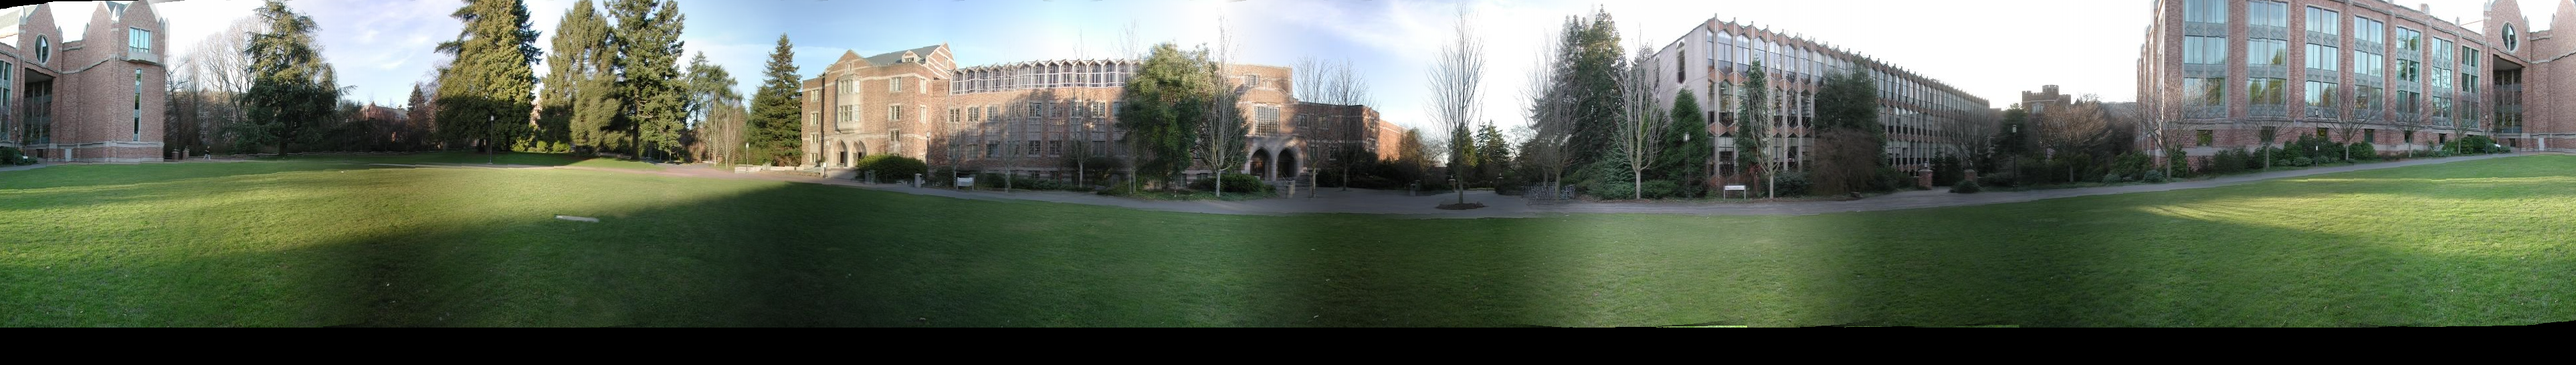
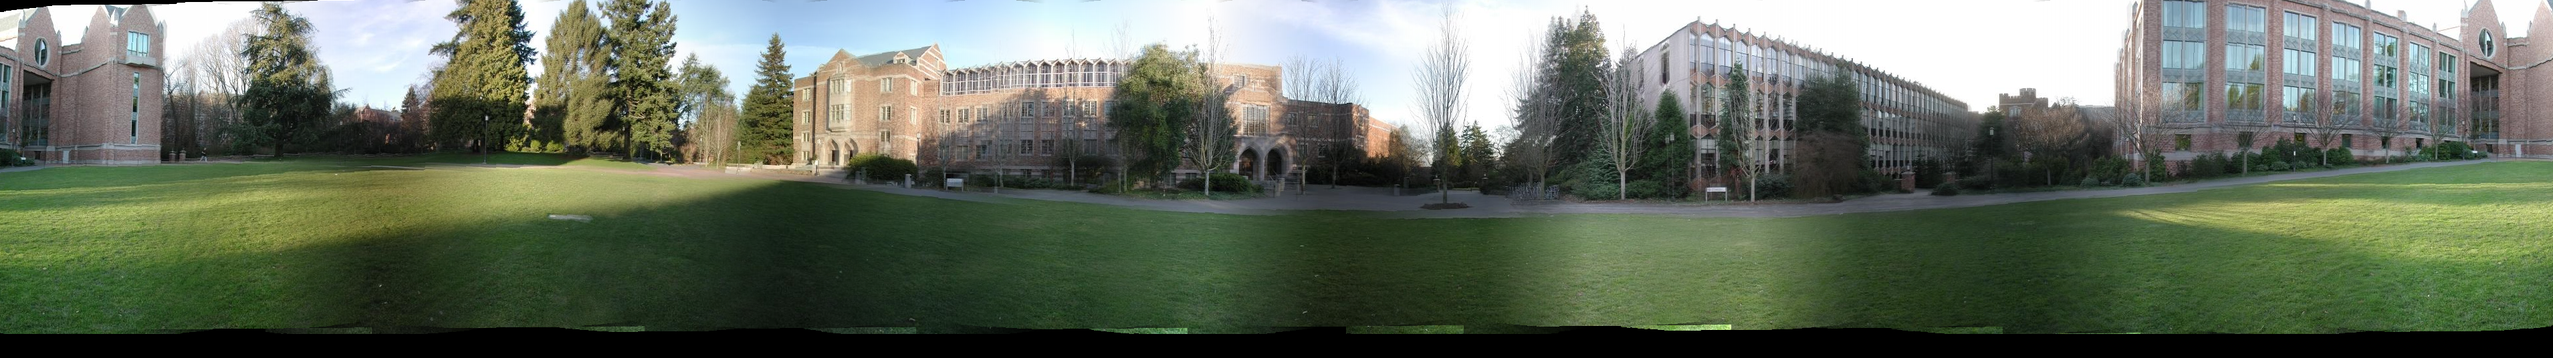
cropped the final images

Changed region(s): [[0.0, 0.0, 1.0, 0.9552], [0.8727, 0.7463, 0.9039, 0.7761]]

diff --git a/main_test_images.m b/main_test_images.m
@@ -5,16 +5,11 @@
 run('VLFeat/vlfeat-0.9.20/toolbox/vl_setup');
 
 % specify directory and extension type
-%directory='Test_Images/'; extension='JPG';
-directory='Lecture_Hall/'; extension='JPG';
+directory='Test_Images/'; extension='JPG';
+%directory='Lecture_Hall/'; extension='JPG';
 
 % load images
 [images] = load_images(directory, extension);
-
-for i = 1:length(images)
-    images{i}=imrotate(images{i},270);
-    images{i}=imresize(images{i}, [480,640]);
-end
 
 % % shorter data set for testing
 % temp{1}=images{1};
@@ -22,30 +17,34 @@ end
 % temp{3}=images{3};
 % images = temp;
 
+
 % cylindrical transform of the entire image set
-focal_length = 663.3665;
+focal_length = 595;
+%focal_length = 663.3665;
 [images] = cylindrical_transform_image_set(images, focal_length);
-[images] = crop_left_side(images,20);
+[images] = crop_left_side(images,6);
 
 % SIFT RANSAC parameters
 numsamples_homography = 4; % min 4
-iterations_ransac = 20000;    % more is better but takes longer O(n)
-threshold_inliers = 12;    % how close do the inliers need to be to be considered inliers
+iterations_ransac = 30000;    % more is better but takes longer O(n)
+threshold_inliers = 7;    % how close do the inliers need to be to be considered inliers
 
 % compute pairwise alignments and merge images
+% [panorama] = merge_images(images, numsamples_homography, iterations_ransac, threshold_inliers, @alpha_blend);
+% [panorama] = merge_images_second_try(images, numsamples_homography, iterations_ransac, threshold_inliers, @alpha_blend);
 [panorama] = merge_images(images, numsamples_homography, iterations_ransac, threshold_inliers, @alpha_blend);
 
-%panorama=imread(['unaligned_lecture_hall_panorama.png']);
+% panorama=imread(['unaligned_panorama.png']);
 
 figure
 imshow(panorama);
 title(['Pre-Alignment']);
-imwrite(panorama,'unaligned_lecture_hall_panorama_2.png');
+imwrite(panorama,'unaligned_test_panorama.png');
 
 % fix end-to-end-alignment
-panorama = end_to_end_alignment(panorama, 500, numsamples_homography, iterations_ransac, threshold_inliers);
+panorama = end_to_end_alignment(panorama, 100, numsamples_homography, iterations_ransac, threshold_inliers);
 
 figure
 imshow(panorama)
 title(['Aligned Panorama']);
-imwrite(panorama,'aligned_lecture_hall_panorama_2.png');
+imwrite(panorama,'aligned_test_panorama.png');

diff --git a/main_conference_room.m b/main_conference_room.m
@@ -6,14 +6,14 @@ run('VLFeat/vlfeat-0.9.20/toolbox/vl_setup');
 
 % specify directory and extension type
 %directory='Test_Images/'; extension='JPG';
-directory='Lecture_Hall/'; extension='JPG';
+directory='Conference_Room/'; extension='JPG';
 
 % load images
 [images] = load_images(directory, extension);
 
 for i = 1:length(images)
     images{i}=imrotate(images{i},270);
-    images{i}=imresize(images{i}, [480,640]);
+    %images{i}=imresize(images{i}, [480,640]);
 end
 
 % % shorter data set for testing
@@ -23,13 +23,13 @@ end
 % images = temp;
 
 % cylindrical transform of the entire image set
-focal_length = 663.3665;
+focal_length = 660.8799;
 [images] = cylindrical_transform_image_set(images, focal_length);
 [images] = crop_left_side(images,20);
 
 % SIFT RANSAC parameters
 numsamples_homography = 4; % min 4
-iterations_ransac = 20000;    % more is better but takes longer O(n)
+iterations_ransac = 2000;    % more is better but takes longer O(n)
 threshold_inliers = 12;    % how close do the inliers need to be to be considered inliers
 
 % compute pairwise alignments and merge images
@@ -40,7 +40,7 @@ threshold_inliers = 12;    % how close do the inliers need to be to be considere
 figure
 imshow(panorama);
 title(['Pre-Alignment']);
-imwrite(panorama,'unaligned_lecture_hall_panorama_2.png');
+imwrite(panorama,'unaligned_conference_room_panorama_1.png');
 
 % fix end-to-end-alignment
 panorama = end_to_end_alignment(panorama, 500, numsamples_homography, iterations_ransac, threshold_inliers);
@@ -48,4 +48,4 @@ panorama = end_to_end_alignment(panorama, 500, numsamples_homography, iterations
 figure
 imshow(panorama)
 title(['Aligned Panorama']);
-imwrite(panorama,'aligned_lecture_hall_panorama_2.png');
+imwrite(panorama,'aligned_conference_room_panorama_1.png');

diff --git a/main_lobby.m b/main_lobby.m
@@ -6,14 +6,14 @@ run('VLFeat/vlfeat-0.9.20/toolbox/vl_setup');
 
 % specify directory and extension type
 %directory='Test_Images/'; extension='JPG';
-directory='Lecture_Hall/'; extension='JPG';
+directory='Lobby/'; extension='JPG';
 
 % load images
 [images] = load_images(directory, extension);
 
 for i = 1:length(images)
     images{i}=imrotate(images{i},270);
-    images{i}=imresize(images{i}, [480,640]);
+    %images{i}=imresize(images{i}, [480,640]);
 end
 
 % % shorter data set for testing
@@ -23,13 +23,13 @@ end
 % images = temp;
 
 % cylindrical transform of the entire image set
-focal_length = 663.3665;
+focal_length = 660.8799;
 [images] = cylindrical_transform_image_set(images, focal_length);
 [images] = crop_left_side(images,20);
 
 % SIFT RANSAC parameters
 numsamples_homography = 4; % min 4
-iterations_ransac = 20000;    % more is better but takes longer O(n)
+iterations_ransac = 2000;    % more is better but takes longer O(n)
 threshold_inliers = 12;    % how close do the inliers need to be to be considered inliers
 
 % compute pairwise alignments and merge images
@@ -40,7 +40,7 @@ threshold_inliers = 12;    % how close do the inliers need to be to be considere
 figure
 imshow(panorama);
 title(['Pre-Alignment']);
-imwrite(panorama,'unaligned_lecture_hall_panorama_2.png');
+imwrite(panorama,'unaligned_lobby_panorama_1.png');
 
 % fix end-to-end-alignment
 panorama = end_to_end_alignment(panorama, 500, numsamples_homography, iterations_ransac, threshold_inliers);
@@ -48,4 +48,4 @@ panorama = end_to_end_alignment(panorama, 500, numsamples_homography, iterations
 figure
 imshow(panorama)
 title(['Aligned Panorama']);
-imwrite(panorama,'aligned_lecture_hall_panorama_2.png');
+imwrite(panorama,'aligned_lobby_panorama_1.png');

diff --git a/insert_window.m b/insert_window.m
@@ -1,18 +1,46 @@
-panorama=imread(['aligned_lecture_hall_panorama.png']);
-space_image=imread(['Space_Picture/alien-planet-55-cancri-e-artist-view-earth.jpg']);
+image=imread(['patrick.jpg']);
+window=imread(['Space_Picture/alien-planet-55-cancri-e-artist-view-earth.jpg']);
 
-size(panorama)
-size(space_image)
+size(image)
+size(window)
 
-panorama_points = [100, 3000,1 ; 100, 3500, 1; 400, 3500, 1; 400, 3000, 1]
-space_image_points = [200, 300, 1; 200, 800, 1; 400, 800, 1; 400, 300, 1]
-x=50;
-p = [100, 3000+x,1 ; 100, 3500+x, 1; 400, 3500+x, 1; 400, 3000+x, 1]
+%figure
+%imshow(window)
 
-H = homography(space_image_points', panorama_points')
-[result, row_offset, column_offset]=transform_image(H, space_image);
+image_points = [   200, 200, 1; 
+                    1, size(image,2), 1;
+                    size(image,1), size(image,2), 1;
+                    size(image,1), 1, 1];
 
-imshow(result)
+window_points = [   1, 1, 1; 
+                    1, size(window,2), 1;
+                    size(window,1), size(window,2), 1;
+                    size(window,1), 1, 1];
+
+H = homography(window_points', image_points')
+% H_inverse=inv(H);
+% for i=1:size(image,1)
+%     for j=1:size(image,2)
+%        p=int32(H_inverse*[i,j,1]');
+%        if (p(1)>1 && p(1) < size(window, 1) && p(2) > 1 && p(2) < size(window, 2))
+%            image(i,j,:)=window(p(1),p(2),:);
+%        end
+%     end
+% end
+
+H_inverse=inv(H);
+for i=1:size(window,1)
+    for j=1:size(window,2)
+       p=floor(H*[i,j,1]');
+       if (p(1) > 1 && p(1) < size(window,1) && p(2) > 1 && p(2) < size(window,2))
+            image(p(1),p(2),:)=window(i,j,:);
+       end
+    end
+end
+
+image = uint8(image);
+%figure
+imshow(image)
 
 
 

diff --git a/merge_images.m b/merge_images.m
@@ -1,19 +1,16 @@
-function [panorama] = merge_images(images, numsamples, iterations, threshold, blending_function)
-% 
+function [panorama] = merge_images(images, numsamples, iterations, threshold, alpha_blend)
+%
 
 panorama=images{1};
-for i = 2:length(images)
-    M = siftransac(images{i}, panorama, numsamples, iterations, threshold);
-    [image, row_offset, column_offset]=transform_image(M, images{i});
-    panorama=blending_function(panorama, image, row_offset, column_offset);
+for t = 2:length(images)
+    [t,length(images)]
+    M = siftransac(images{t}, panorama, numsamples, iterations, threshold);
+    
+    % include the following two lines to use the full planar perspective transformation
+    % images{t}=uint8(transform_image(M, images{t}));
+    % M = siftransac(images{t}, panorama, numsamples, iterations, threshold);    
+    
+    x_offset=floor((1)*M(1,3));
+    y_offset=floor((-1)*M(2,3));
+    panorama = alpha_blend(panorama, images{t}, x_offset, y_offset);
 end
-
-
-
-% perform SIFT and RANSAC to compute transformation matrix
-% sift_ransac (images_set, numsamples (min 4), iterations of RANSAC, threshold (distance to be considered an inlier))
-% returns a set of matrices to transform an image into the coordinate
-% system of the previous set of merged images
-% [M, image1] = sift_ransac_image_set(images, 4, 100, 30);
-
-% [M, image] = sift_ransac_image_set(images, numsamples, iterations, threshold)

diff --git a/crop_bottom.m b/crop_bottom.m
@@ -1,0 +1,33 @@
+image=imread(['aligned_lecture_hall_panorama.png']);
+x=160;
+image=image(1:size(image,1)-x,:,:);
+figure
+imshow(image)
+title(['Cropped']);
+imwrite(panorama,'cropped_aligned_lecture_hall_panorama.png');
+
+image=imread(['aligned_conference_room_panorama_1.png']);
+x=278;
+image=image(1:size(image,1)-x,:,:);
+figure
+imshow(image)
+title(['Cropped']);
+imwrite(panorama,'cropped_aligned_conference_room_panorama.png');
+
+
+image=imread(['aligned_lobby_panorama_1.png']);
+x=240;
+image=image(1:size(image,1)-x,:,:);
+figure
+imshow(image)
+title(['Cropped']);
+imwrite(panorama,'cropped_aligned_lobby_panorama.png');
+
+
+image=imread(['aligned_test_panorama.png']);
+x=50;
+image=image(1:size(image,1)-x,:,:);
+figure
+imshow(image)
+title(['Cropped']);
+imwrite(panorama,'cropped_aligned_test_panorama.png');

diff --git a/merge_images_third_try.m b/merge_images_third_try.m
@@ -5,8 +5,8 @@ panorama=images{1};
 for t = 2:length(images)
     [t,length(images)]
     M = siftransac(images{t}, panorama, numsamples, iterations, threshold);
-    images{t}=uint8(transform_image(M, images{t}));
-    M = siftransac(images{t}, panorama, numsamples, iterations, threshold);    
+    %images{t}=uint8(transform_image(M, images{t}));
+    %M = siftransac(images{t}, panorama, numsamples, iterations, threshold);    
     x_offset=floor((1)*M(1,3));
     y_offset=floor((-1)*M(2,3));
     panorama = alpha_blend(panorama, images{t}, x_offset, y_offset);

diff --git a/end_to_end_alignment.m b/end_to_end_alignment.m
@@ -6,7 +6,7 @@ left_image = panorama(:, 1:num_pixels, :);
 right_image = panorama(:, (size(panorama,2)-num_pixels):size(panorama,2), :);
 M = siftransac(left_image, right_image, numsamples, iterations, threshold);
 
-row_offset = int32(M(1,3))*(-1);  % change the sign of this if slope is going down vs. up
+row_offset = int32(M(1,3))*(1);  % change the sign of this if slope is going down vs. up
 
 if row_offset == 0 
     image = panorama;

diff --git a/test_multiple_image_blending.m b/test_multiple_image_blending.m
@@ -26,7 +26,7 @@ focal_length = 595;
 
 % SIFT RANSAC parameters
 numsamples_homography = 4; % min 4
-iterations_ransac = 500;    % more is better but takes longer O(n)
+iterations_ransac = 30000;    % more is better but takes longer O(n)
 threshold_inliers = 7;    % how close do the inliers need to be to be considered inliers
 
 % compute pairwise alignments and merge images
